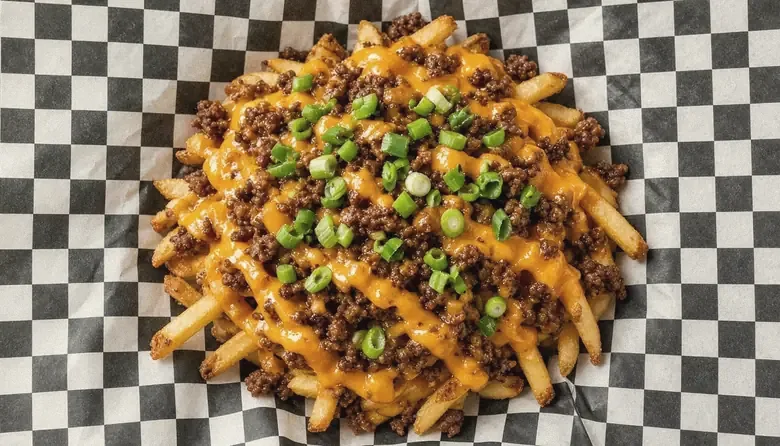
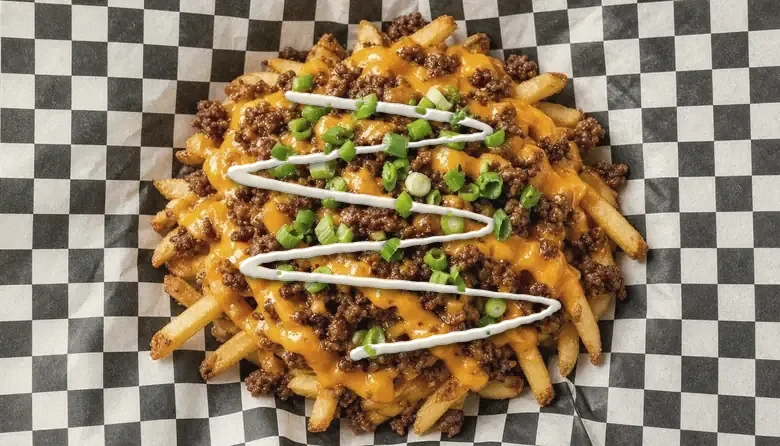
Pictures and words agree with the recipe cards (Victor: 'Fix those')
- Spaghetti & meatballs: says three meatballs; the picture with six is hidden
  until a real photo. Nonna's home picture is the chicken parm.
- Penne arrabbiata: chili flakes (no peppers), no '(vegetarian)' since it has
  Parmesan; 'No meat.' in the words instead.
- Quesadilla and nachos: no peppers in the words or the taps.
- Loaded fries: the sour-cream zig-zag the recipe finishes them with is drawn
  on the picture, under the scallion (build/art/lf_crema.py).
- Recipe data follows (old name kept as an alias); Google data and link cards
  rebuilt.

Claude-Session: https://claude.ai/code/session_0115a1bGYR8Kpu5CX1GggxyL

Changed region(s): [[0.2769, 0.3206, 0.7385, 0.8161], [0.3385, 0.204, 0.6462, 0.3498]]

diff --git a/taco-brava/index.html b/taco-brava/index.html
@@ -17,7 +17,7 @@
 <link rel="manifest" href="manifest.webmanifest">
 <link rel="preload" href="../shared/fonts/archivo.woff2" as="font" type="font/woff2" crossorigin>
 <link rel="stylesheet" href="../shared/order.css">
-<script type="application/ld+json">{"@context":"https://schema.org","@type":"FoodEstablishment","@id":"https://victorfromaruba-stack.github.io/restaurant-/taco-brava/#restaurant","name":"Taco Brava","url":"https://victorfromaruba-stack.github.io/restaurant-/taco-brava/","image":"https://victorfromaruba-stack.github.io/restaurant-/shared/og/taco-brava.jpg","description":"Birria tacos filled with slow-braised beef and mozzarella, with a cup of consommé to dip, plus ground beef street tacos, quesadillas and nachos.","servesCuisine":"Mexican","telephone":"+297 747 7794","priceRange":"ƒ3.00–ƒ27.00","currenciesAccepted":"AWG, USD","paymentAccepted":"Cash, Bank transfer","acceptsReservations":false,"address":{"@type":"PostalAddress","addressCountry":"AW"},"areaServed":[{"@type":"Place","name":"Noord, Aruba"},{"@type":"Place","name":"Palm Beach, Aruba"},{"@type":"Place","name":"Eagle Beach, Aruba"},{"@type":"Place","name":"Oranjestad, Aruba"},{"@type":"Place","name":"Paradera, Aruba"},{"@type":"Place","name":"Santa Cruz, Aruba"}],"hasMenu":{"@type":"Menu","name":"Taco Brava menu","hasMenuSection":[{"@type":"MenuSection","name":"Signature","hasMenuItem":[{"@type":"MenuItem","name":"Birria tacos (3) with consommé","description":"Three flour-tortilla tacos filled with slow-braised beef, melted mozzarella, onion and cilantro, served with a cup of consommé and lime.","offers":{"@type":"Offer","price":"27.00","priceCurrency":"AWG"}}]},{"@type":"MenuSection","name":"Mains","hasMenuItem":[{"@type":"MenuItem","name":"Ground beef street tacos (3)","description":"Three soft tacos with seasoned ground beef, onion, cilantro and salsa.","offers":{"@type":"Offer","price":"14.50","priceCurrency":"AWG"}},{"@type":"MenuItem","name":"Loaded chicken burrito","description":"Flour tortilla stuffed with chicken, rice, black beans, cheddar, salsa, cream and lettuce.","offers":{"@type":"Offer","price":"20.50","priceCurrency":"AWG"}},{"@type":"MenuItem","name":"Chicken quesadilla","description":"Flour tortilla with chicken, cheddar, mozzarella, peppers and onion, served with salsa and cream.","offers":{"@type":"Offer","price":"16.00","priceCurrency":"AWG"}},{"@type":"MenuItem","name":"Beef nachos (fried tortilla chips)","description":"Crispy fried tortilla chips topped with spiced ground beef, cheddar, black beans, peppers, salsa and cream.","offers":{"@type":"Offer","price":"20.00","priceCurrency":"AWG"}},{"@type":"MenuItem","name":"Chicken burrito bowl","description":"Rice bowl with chicken, black beans, lettuce, tomato, salsa, cheddar, lime and cilantro.","offers":{"@type":"Offer","price":"21.50","priceCurrency":"AWG"}},{"@type":"MenuItem","name":"Crispy shrimp tacos (3)","description":"Three flour-tortilla tacos with crispy shrimp, cabbage, lime cream, cilantro and garlic.","offers":{"@type":"Offer","price":"22.50","priceCurrency":"AWG"}}]},{"@type":"MenuSection","name":"Sides","hasMenuItem":[{"@type":"MenuItem","name":"Chips & salsa","description":"Crispy fried tortilla chips with house salsa.","offers":{"@type":"Offer","price":"5.50","priceCurrency":"AWG"}}]},{"@type":"MenuSection","name":"Drinks","hasMenuItem":[{"@type":"MenuItem","name":"Coca-Cola (can)","description":"Ice-cold can.","offers":{"@type":"Offer","price":"3.00","priceCurrency":"AWG"}},{"@type":"MenuItem","name":"Coca-Cola Zero (can)","description":"Ice-cold can, no sugar.","offers":{"@type":"Offer","price":"3.00","priceCurrency":"AWG"}},{"@type":"MenuItem","name":"Sprite (can)","description":"Ice-cold lemon-lime can.","offers":{"@type":"Offer","price":"3.00","priceCurrency":"AWG"}}]}]}}</script>
+<script type="application/ld+json">{"@context":"https://schema.org","@type":"FoodEstablishment","@id":"https://victorfromaruba-stack.github.io/restaurant-/taco-brava/#restaurant","name":"Taco Brava","url":"https://victorfromaruba-stack.github.io/restaurant-/taco-brava/","image":"https://victorfromaruba-stack.github.io/restaurant-/shared/og/taco-brava.jpg","description":"Birria tacos filled with slow-braised beef and mozzarella, with a cup of consommé to dip, plus ground beef street tacos, quesadillas and nachos.","servesCuisine":"Mexican","telephone":"+297 747 7794","priceRange":"ƒ3.00–ƒ27.00","currenciesAccepted":"AWG, USD","paymentAccepted":"Cash, Bank transfer","acceptsReservations":false,"address":{"@type":"PostalAddress","addressCountry":"AW"},"areaServed":[{"@type":"Place","name":"Noord, Aruba"},{"@type":"Place","name":"Palm Beach, Aruba"},{"@type":"Place","name":"Eagle Beach, Aruba"},{"@type":"Place","name":"Oranjestad, Aruba"},{"@type":"Place","name":"Paradera, Aruba"},{"@type":"Place","name":"Santa Cruz, Aruba"}],"hasMenu":{"@type":"Menu","name":"Taco Brava menu","hasMenuSection":[{"@type":"MenuSection","name":"Signature","hasMenuItem":[{"@type":"MenuItem","name":"Birria tacos (3) with consommé","description":"Three flour-tortilla tacos filled with slow-braised beef, melted mozzarella, onion and cilantro, served with a cup of consommé and lime.","offers":{"@type":"Offer","price":"27.00","priceCurrency":"AWG"}}]},{"@type":"MenuSection","name":"Mains","hasMenuItem":[{"@type":"MenuItem","name":"Ground beef street tacos (3)","description":"Three soft tacos with seasoned ground beef, onion, cilantro and salsa.","offers":{"@type":"Offer","price":"14.50","priceCurrency":"AWG"}},{"@type":"MenuItem","name":"Loaded chicken burrito","description":"Flour tortilla stuffed with chicken, rice, black beans, cheddar, salsa, cream and lettuce.","offers":{"@type":"Offer","price":"20.50","priceCurrency":"AWG"}},{"@type":"MenuItem","name":"Chicken quesadilla","description":"Flour tortilla with chicken, cheddar, mozzarella and onion, served with salsa and cream.","offers":{"@type":"Offer","price":"16.00","priceCurrency":"AWG"}},{"@type":"MenuItem","name":"Beef nachos (fried tortilla chips)","description":"Crispy fried tortilla chips topped with spiced ground beef, cheddar, black beans, salsa and cream.","offers":{"@type":"Offer","price":"20.00","priceCurrency":"AWG"}},{"@type":"MenuItem","name":"Chicken burrito bowl","description":"Rice bowl with chicken, black beans, lettuce, tomato, salsa, cheddar, lime and cilantro.","offers":{"@type":"Offer","price":"21.50","priceCurrency":"AWG"}},{"@type":"MenuItem","name":"Crispy shrimp tacos (3)","description":"Three flour-tortilla tacos with crispy shrimp, cabbage, lime cream, cilantro and garlic.","offers":{"@type":"Offer","price":"22.50","priceCurrency":"AWG"}}]},{"@type":"MenuSection","name":"Sides","hasMenuItem":[{"@type":"MenuItem","name":"Chips & salsa","description":"Crispy fried tortilla chips with house salsa.","offers":{"@type":"Offer","price":"5.50","priceCurrency":"AWG"}}]},{"@type":"MenuSection","name":"Drinks","hasMenuItem":[{"@type":"MenuItem","name":"Coca-Cola (can)","description":"Ice-cold can.","offers":{"@type":"Offer","price":"3.00","priceCurrency":"AWG"}},{"@type":"MenuItem","name":"Coca-Cola Zero (can)","description":"Ice-cold can, no sugar.","offers":{"@type":"Offer","price":"3.00","priceCurrency":"AWG"}},{"@type":"MenuItem","name":"Sprite (can)","description":"Ice-cold lemon-lime can.","offers":{"@type":"Offer","price":"3.00","priceCurrency":"AWG"}}]}]}}</script>
 </head>
 <body data-page="brand" data-brand="taco-brava" data-root="../">
 <a class="oa-skip" href="#oa-main" data-t>Skip to the menu</a>

diff --git a/nonnas-night-in/index.html b/nonnas-night-in/index.html
@@ -17,7 +17,7 @@
 <link rel="manifest" href="manifest.webmanifest">
 <link rel="preload" href="../shared/fonts/archivo.woff2" as="font" type="font/woff2" crossorigin>
 <link rel="stylesheet" href="../shared/order.css">
-<script type="application/ld+json">{"@context":"https://schema.org","@type":"FoodEstablishment","@id":"https://victorfromaruba-stack.github.io/restaurant-/nonnas-night-in/#restaurant","name":"Nonna’s Night In","url":"https://victorfromaruba-stack.github.io/restaurant-/nonnas-night-in/","image":"https://victorfromaruba-stack.github.io/restaurant-/shared/og/nonnas-night-in.jpg","description":"Penne baked with beef bolognese and mozzarella, spaghetti and meatballs, chicken parmigiana and cheesy garlic bread.","servesCuisine":"Italian","telephone":"+297 747 7794","priceRange":"ƒ3.00–ƒ26.50","currenciesAccepted":"AWG, USD","paymentAccepted":"Cash, Bank transfer","acceptsReservations":false,"address":{"@type":"PostalAddress","addressCountry":"AW"},"areaServed":[{"@type":"Place","name":"Noord, Aruba"},{"@type":"Place","name":"Palm Beach, Aruba"},{"@type":"Place","name":"Eagle Beach, Aruba"},{"@type":"Place","name":"Oranjestad, Aruba"},{"@type":"Place","name":"Paradera, Aruba"},{"@type":"Place","name":"Santa Cruz, Aruba"}],"hasMenu":{"@type":"Menu","name":"Nonna’s Night In menu","hasMenuSection":[{"@type":"MenuSection","name":"Signature","hasMenuItem":[{"@type":"MenuItem","name":"Baked penne bolognese","description":"Penne baked with a beef and tomato bolognese, mozzarella and Italian herbs.","offers":{"@type":"Offer","price":"26.50","priceCurrency":"AWG"}}]},{"@type":"MenuSection","name":"Mains","hasMenuItem":[{"@type":"MenuItem","name":"Chicken parmigiana with spaghetti","description":"Breaded chicken topped with marinara, mozzarella and Parmesan, served with spaghetti.","offers":{"@type":"Offer","price":"24.00","priceCurrency":"AWG"}},{"@type":"MenuItem","name":"Spaghetti & meatballs","description":"Spaghetti with beef meatballs in marinara, finished with Parmesan and Italian herbs.","offers":{"@type":"Offer","price":"25.50","priceCurrency":"AWG"}},{"@type":"MenuItem","name":"Chicken Alfredo penne","description":"Penne with chicken in a garlic cream sauce and Parmesan.","offers":{"@type":"Offer","price":"20.50","priceCurrency":"AWG"}},{"@type":"MenuItem","name":"Penne arrabbiata (vegetarian)","description":"Penne in a spicy tomato marinara with peppers, garlic, onion and Parmesan.","offers":{"@type":"Offer","price":"16.95","priceCurrency":"AWG"},"suitableForDiet":"https://schema.org/VegetarianDiet"}]},{"@type":"MenuSection","name":"Sides","hasMenuItem":[{"@type":"MenuItem","name":"Cheesy garlic bread","description":"Toasted garlic bread topped with mozzarella and Italian herbs.","offers":{"@type":"Offer","price":"4.50","priceCurrency":"AWG"}}]},{"@type":"MenuSection","name":"Drinks","hasMenuItem":[{"@type":"MenuItem","name":"Coca-Cola (can)","description":"Ice-cold can.","offers":{"@type":"Offer","price":"3.00","priceCurrency":"AWG"}},{"@type":"MenuItem","name":"Coca-Cola Zero (can)","description":"Ice-cold can, no sugar.","offers":{"@type":"Offer","price":"3.00","priceCurrency":"AWG"}},{"@type":"MenuItem","name":"Sprite (can)","description":"Ice-cold lemon-lime can.","offers":{"@type":"Offer","price":"3.00","priceCurrency":"AWG"}}]}]}}</script>
+<script type="application/ld+json">{"@context":"https://schema.org","@type":"FoodEstablishment","@id":"https://victorfromaruba-stack.github.io/restaurant-/nonnas-night-in/#restaurant","name":"Nonna’s Night In","url":"https://victorfromaruba-stack.github.io/restaurant-/nonnas-night-in/","image":"https://victorfromaruba-stack.github.io/restaurant-/shared/og/nonnas-night-in.jpg","description":"Penne baked with beef bolognese and mozzarella, spaghetti and meatballs, chicken parmigiana and cheesy garlic bread.","servesCuisine":"Italian","telephone":"+297 747 7794","priceRange":"ƒ3.00–ƒ26.50","currenciesAccepted":"AWG, USD","paymentAccepted":"Cash, Bank transfer","acceptsReservations":false,"address":{"@type":"PostalAddress","addressCountry":"AW"},"areaServed":[{"@type":"Place","name":"Noord, Aruba"},{"@type":"Place","name":"Palm Beach, Aruba"},{"@type":"Place","name":"Eagle Beach, Aruba"},{"@type":"Place","name":"Oranjestad, Aruba"},{"@type":"Place","name":"Paradera, Aruba"},{"@type":"Place","name":"Santa Cruz, Aruba"}],"hasMenu":{"@type":"Menu","name":"Nonna’s Night In menu","hasMenuSection":[{"@type":"MenuSection","name":"Signature","hasMenuItem":[{"@type":"MenuItem","name":"Baked penne bolognese","description":"Penne baked with a beef and tomato bolognese, mozzarella and Italian herbs.","offers":{"@type":"Offer","price":"26.50","priceCurrency":"AWG"}}]},{"@type":"MenuSection","name":"Mains","hasMenuItem":[{"@type":"MenuItem","name":"Chicken parmigiana with spaghetti","description":"Breaded chicken topped with marinara, mozzarella and Parmesan, served with spaghetti.","offers":{"@type":"Offer","price":"24.00","priceCurrency":"AWG"}},{"@type":"MenuItem","name":"Spaghetti & meatballs","description":"Spaghetti with three beef meatballs in marinara, finished with Parmesan and Italian herbs.","offers":{"@type":"Offer","price":"25.50","priceCurrency":"AWG"}},{"@type":"MenuItem","name":"Chicken Alfredo penne","description":"Penne with chicken in a garlic cream sauce and Parmesan.","offers":{"@type":"Offer","price":"20.50","priceCurrency":"AWG"}},{"@type":"MenuItem","name":"Penne arrabbiata","description":"Penne in a spicy tomato sauce with chili flakes, garlic and onion, finished with Parmesan and parsley. No meat.","offers":{"@type":"Offer","price":"16.95","priceCurrency":"AWG"}}]},{"@type":"MenuSection","name":"Sides","hasMenuItem":[{"@type":"MenuItem","name":"Cheesy garlic bread","description":"Toasted garlic bread topped with mozzarella and Italian herbs.","offers":{"@type":"Offer","price":"4.50","priceCurrency":"AWG"}}]},{"@type":"MenuSection","name":"Drinks","hasMenuItem":[{"@type":"MenuItem","name":"Coca-Cola (can)","description":"Ice-cold can.","offers":{"@type":"Offer","price":"3.00","priceCurrency":"AWG"}},{"@type":"MenuItem","name":"Coca-Cola Zero (can)","description":"Ice-cold can, no sugar.","offers":{"@type":"Offer","price":"3.00","priceCurrency":"AWG"}},{"@type":"MenuItem","name":"Sprite (can)","description":"Ice-cold lemon-lime can.","offers":{"@type":"Offer","price":"3.00","priceCurrency":"AWG"}}]}]}}</script>
 </head>
 <body data-page="brand" data-brand="nonnas-night-in" data-root="../">
 <a class="oa-skip" href="#oa-main" data-t>Skip to the menu</a>

diff --git a/build/art/lf_crema.py b/build/art/lf_crema.py
@@ -1,0 +1,82 @@
+"""Loaded fries: the recipe card finishes them with a sour-cream zig-zag under the scallion, the picture had none.
+Draws the zig-zag onto the picture (scallion stays on top), so the picture shows what the menu says.
+  python3 build/art/lf_crema.py [out.webp]   reads the picture as it was before (git 85dedc9), writes over it by default"""
+import io, math, random, subprocess, sys, os
+import numpy as np
+from PIL import Image, ImageDraw, ImageFilter
+
+ROOT = os.path.dirname(os.path.dirname(os.path.dirname(os.path.abspath(__file__))))
+PIC = "smash-shack/assets/dishes/lf.webp"
+src = subprocess.run(["git", "-C", ROOT, "show", "85dedc9:" + PIC], capture_output=True, check=True).stdout
+im = Image.open(io.BytesIO(src)).convert("RGB")
+W, H = im.size
+a = np.asarray(im).astype(np.float32)
+rnd = random.Random(7)
+
+# the pile: roughly an ellipse; the zig-zag runs corner to corner across it, slightly slanted
+cx, cy, rx, ry = 395, 222, 215, 175
+passes = 6
+pts = []
+for i in range(passes + 1):
+    t = i / passes
+    y = cy - ry * 0.70 + t * ry * 1.45 + rnd.uniform(-12, 12)
+    half = rx * rnd.uniform(0.52, 0.74) * math.sqrt(max(0.0, 1 - ((y - cy) / (ry * 1.02)) ** 2))
+    x = cx + (half if i % 2 else -half) + rnd.uniform(-20, 20) + (y - cy) * 0.22
+    pts.append((x, y))
+
+def catmull(p, n=900):
+    out = []
+    p = [p[0]] + p + [p[-1]]
+    for i in range(1, len(p) - 2):
+        p0, p1, p2, p3 = p[i - 1], p[i], p[i + 1], p[i + 2]
+        for k in range(n):
+            t = k / n
+            t2, t3 = t * t, t * t * t
+            out.append(tuple(0.5 * ((2 * p1[j]) + (-p0[j] + p2[j]) * t + (2 * p0[j] - 5 * p1[j] + 4 * p2[j] - p3[j]) * t2
+                                    + (-p0[j] + 3 * p1[j] - 3 * p2[j] + p3[j]) * t3) for j in (0, 1)))
+    out.append(p[-2])
+    return out
+
+path = catmull(pts)
+S = 4
+mask = Image.new("L", (W * S, H * S), 0)
+d = ImageDraw.Draw(mask)
+phase = rnd.uniform(0, 6)
+for i, (x, y) in enumerate(path):
+    w = 4.2 + 1.2 * math.sin(i / 260.0 + phase) + 0.5 * math.sin(i / 70.0)   # a hand-squeezed line is never even
+    wob = 1.8 * math.sin(i / 110.0) + 0.8 * math.sin(i / 37.0) + 0.5 * math.sin(i / 9.0)
+    X, Y = (x + wob) * S, (y + wob * 0.6) * S
+    d.ellipse([X - w * S, Y - w * S, X + w * S, Y + w * S], fill=255)
+mask = mask.resize((W, H), Image.LANCZOS)
+
+# scallion sits on top of the cream: no cream (and no cream shadow) on green pixels
+r, g, b = a[..., 0], a[..., 1], a[..., 2]
+green = ((g > r + 18) & (g > b + 18) & (g > 80)).astype(np.uint8) * 255
+green = np.asarray(Image.fromarray(green).filter(ImageFilter.MaxFilter(3)).filter(ImageFilter.GaussianBlur(0.7))).astype(np.float32) / 255
+top = 1 - green
+
+m = np.asarray(mask).astype(np.float32) / 255 * top
+shadow = np.asarray(Image.fromarray((m * 255).astype(np.uint8)).transform((W, H), Image.AFFINE, (1, 0, -2.5, 0, 1, -4)).filter(ImageFilter.GaussianBlur(3.0))).astype(np.float32) / 255
+out = a * (1 - 0.55 * (shadow * (1 - m) * top)[..., None])
+
+# the cream as a soft rounded bead: shaded from its own height, light from the top left like the photo
+hgt = np.asarray(Image.fromarray((m * 255).astype(np.uint8)).filter(ImageFilter.GaussianBlur(2.2))).astype(np.float32) / 255
+hgt = np.sqrt(np.clip(hgt, 0, 1)) * m
+gy, gx = np.gradient(hgt)
+k = 5.0
+n = np.dstack([-gx * k, -gy * k, np.ones_like(hgt)])
+n /= np.linalg.norm(n, axis=2, keepdims=True)
+L = np.array([-0.45, -0.65, 0.62], np.float32); L /= np.linalg.norm(L)
+Hh = L + np.array([0, 0, 1], np.float32); Hh /= np.linalg.norm(Hh)
+diff = np.clip((n * L).sum(2), 0, 1)
+spec = np.clip((n * Hh).sum(2), 0, 1) ** 38
+base = np.array([238, 234, 222], np.float32)
+cream = base[None, None, :] * (0.72 + 0.34 * diff)[..., None] + 255 * 0.55 * spec[..., None]
+cream = cream * 0.93 + a * 0.07          # thin edges let a little of the cheese through
+noise = np.random.default_rng(3).normal(0, 3.0, (H, W, 1)).astype(np.float32)   # the same fine grain as build/grade.py
+cream = cream + noise
+out = out * (1 - m[..., None]) + cream * m[..., None]
+res = Image.fromarray(np.clip(out, 0, 255).astype(np.uint8))
+dst = sys.argv[1] if len(sys.argv) > 1 else os.path.join(ROOT, PIC)
+res.save(dst, "WEBP", quality=86, method=6) if dst.endswith(".webp") else res.save(dst)
+print("wrote", dst)

diff --git a/.claude/brain/questions.md b/.claude/brain/questions.md
@@ -13,10 +13,8 @@ When answered: record the decision in victor.md (dated) and delete it here.
 - US dollars: what rate does the driver use (1.75? 1.80?), and is change given in florins? Then the site can say it. Card machine for the driver (CMB wireless Afl. 100/month + fees) or a Sentoo link (Aruba Bank business account) stay his call.
 - Google: one listing per restaurant (Google allows delivery-only brands from a shared kitchen when each has its own website and its own branded packaging, address hidden, service areas). Each needs its own branded bag sticker or box. Steps sent 9 Oct; once each exists, put its review link in the chef app's after-delivery reply.
 - Own domain for Order Aruba (about $10–15 a year, e.g. orderaruba.com)? Then links read orderaruba.com/taco-brava/ instead of victorfromaruba-stack.github.io/restaurant-/.
-- Redesign leftover: plainer dish names ('Smash combo', 'Loaded fries', 'Penne arrabbiata' without '(vegetarian)', since it has Parmesan)? And dish names and descriptions are still English in every language (so the WhatsApp ticket reads the same for the kitchen): translate the descriptions too, now that he wants everything in the visitor's language?
+- Redesign leftover: plainer dish names ('Smash combo', 'Loaded fries'; 'Penne arrabbiata' is done, 16 Oct)? And dish names and descriptions are still English in every language (so the WhatsApp ticket reads the same for the kitchen): translate the descriptions too, now that he wants everything in the visitor's language?
 - Bank transfer: which account (bank, name, number) should a customer send to? The status page and the kitchen's message need it. Until then the page says the restaurant will send the details.
 - Kitchen PIN: Claude set one for the test (told to Victor in chat, not written here). Change it on /driver/admin/ and give it to the chef. Add the real drivers there too (name, phone, PIN).
-- Pidi's look: the pidi-site branch is built on the 9 Oct redesign ('Lights On', dark ink), which he called less alive on 15 Oct. Build Pidi's ordering-in-the-app and tracking into the lively look that's live now, or keep Pidi's own look? Ask before any Pidi screen work.
 - Make the repo private: first github.com/settings/billing must show a paid plan (Pro); on Free, a private repo's site goes offline. Then Settings → General → Danger Zone → Change visibility → Private. Also github.com/settings/emails → Keep my email addresses private.
-- Pictures and words that don't match (audit 16 Oct): Nonna's spaghetti picture shows 6 meatballs (recipe plates 3; it's also Nonna's home picture); arrabbiata says peppers (recipe: chili flakes) and 'vegetarian' with Parmesan; loaded fries promise sour cream not in the picture; quesadilla and nachos offer 'No peppers' but the recipe cards have none. OK to make the words follow the recipe cards and hide the pictures that don't match until real photos?
 - Pidi database PIN fix (16 Oct, on branch pidi-site, file driver/v2/supabase/PIN_FIX_2026-10-16.sql) is not on the live database yet: this session's Supabase connector only sees another project. Either Victor reconnects the Supabase connector with the account that has the Pidi project (claude.ai/customize/connectors, then a new session runs the file), or he pastes the file into that project's SQL editor and presses Run. Then set a new 8-digit kitchen PIN and tell only the chef.

diff --git a/.claude/brain/ideas.md b/.claude/brain/ideas.md
@@ -16,7 +16,7 @@ under 25 lines: drop ideas that stopped making sense.
 - [ ] M · S · "It's for someone else": optional name + phone for the person receiving, on the WhatsApp ticket and in the chef app · done when: ticket line parsed by the chef app, qa passes
 - [ ] L · M · Count dishes from tickets in the chef app; only after a month of real counts, a "Most ordered this month" mark (the lift only comes when it's true, NBER 2007) · done when: counts visible to Victor; no label before real data
 - [ ] M · S · Plainer dish names ("Smash burger combo (burger + fries)", "Fries (side)", "Penne arrabbiata (vegetarian)" read like a till export). Names feed the WhatsApp ticket and the chef app's matching (kitchen-data.json, and Victor's private builder), so ask Victor first (needs Victor) · done when: new names on site, tickets and chef app agree and qa passes
-- [ ] H · S · On Victor's VPS copy only: add the 8 Oct allergens (tenders milk; fried rice, lo mein, Family Table sesame; lo mein, pork stir-fry, Family Table shellfish; bitterballen mustard; chips gluten) to the private kitchen-data builder in ops/kitchen/_build/, so a rebuild keeps them (needs Victor's server) · done when: a rebuilt kitchen-data.json still passes qa/check_site.py
+- [ ] H · S · On Victor's VPS copy only: add the 8 Oct allergens (tenders milk; fried rice, lo mein, Family Table sesame; lo mein, pork stir-fry, Family Table shellfish; bitterballen mustard; chips gluten; and 16 Oct: saté gluten, pork on frikandel and mix, 'Penne arrabbiata' renamed without '(vegetarian)' and not vegetarian, 'No peppers' off the quesadilla and nachos) to the private kitchen-data builder in ops/kitchen/_build/, so a rebuild keeps them (needs Victor's server) · done when: a rebuilt kitchen-data.json still passes qa/check_site.py
 - [ ] H · S · Smash Shack: the cheeseburger under "Start here" is still a generated shot with a thick patty. Needs a real photo (needs Victor)
 - [ ] H · L · Real photos, signatures first (needs Victor) · done when: the five signature dishes are real photos
 - [ ] M · M · Chef app: send cash sales to Book Keeper at Close up (Book Keeper's /api/intake/sales is live; only orders paid cash, same date the order was placed, never bank transfers) · done when: a test order sent twice shows once in Book Keeper

diff --git a/.claude/brain/victor.md b/.claude/brain/victor.md
@@ -11,6 +11,7 @@ Public repo: nothing private here (no costs, margins, buyer prices, plans, conta
 - Money is tight (8 Oct 2026: "Don't have the money now use what you can"). No paid APIs, no Gemini spend, no paid tools without asking.
 
 ## Decisions (dated)
+- 2026-10-16: Answers to the audit report: 'oke do that' = build Pidi's ordering in the app and order tracking into the lively look that's live now (not the 9 Oct redesign's dark look on the pidi-site branch). 'Fix those' = make the dish words follow the recipe cards and hide pictures that don't match until real photos (spaghetti meatballs, arrabbiata peppers and 'vegetarian', loaded fries sour cream, 'No peppers' on quesadilla and nachos).
 - 2026-10-16: Pre-launch audit answers: 'Wait until Pidi is complete' = go online only with Pidi finished (ordering in the app, order tracking, driver v2; the pidi-site branch). Until then main stays Order Aruba with WhatsApp ordering. No minimum order (replaces the 9 Oct ƒ24 rule: the Pidi branch's minFood and the database's min_food must follow). Delivery 35–50 min (replaces 45–60 on the Pidi branch). Internal notes hidden from the live site and the repo made private (he changes the visibility after checking his GitHub plan). Pidi database PIN fix: 'Yes, fix it'.
 - 2026-10-15: 'Like how the design was before the big change it feels less alive': the 9 Oct redesign is undone. The design from before it (night blue, BON NOCHI, big photo cards, covers, + on photos) is back since 15 Oct with every later fix kept. Don't bring the redesign's look back; improve this one.
 - 2026-10-15: 'Please continue the website use to look better vs what I see now' (after calling the 9 Oct redesign 'meh' next to the older, more 'alive' site): more visual life. Done the same day: big food photo cards on the home page, every true dish picture back on the menus.

diff --git a/.claude/brain/journal.md b/.claude/brain/journal.md
@@ -4,6 +4,7 @@ One line per working session or daily run, newest on top: date · who · what sh
 (commit) · what's waiting. Read the last ten lines before planning work. When the
 file passes 100 lines, fold the oldest month into one summary line.
 
+- 2026-10-16 · claude (cloud) · Victor 'Fix those': words follow the recipe cards (spaghetti 3 meatballs + picture hidden, Nonna's home picture now chicken parm; 'Penne arrabbiata', chili flakes, not vegetarian; no peppers in quesadilla/nachos) and sour-cream zig-zag drawn on the loaded fries picture (build/art/lf_crema.py)
 - 2026-10-16 · claude (cloud) · chef app pre-launch fixes merged (ee463b6, qa/check_kitchen.py 0 problems) · Pidi PIN fix on pidi-site (7eaa28e, paste file 55b2df1) · not on the live database: the connector can't reach the Pidi project
 - 2026-10-16 · claude (cloud) · pre-launch audit: website fixes (4599d65), internal notes off the live site via Jekyll exclude (97c00f6), 35–50 min + no minimum (1f1c41b), notes (5c67bb7) · running: chef app fixes, Pidi PIN fix · waiting: Victor on private repo, Pidi complete
 - 2026-10-15 · claude (cloud) · Victor: the redesign 'feels less alive'. The pre-redesign design is back (f79b135): night-blue look, logo row, Start with these photo cards, restaurant rows with pictures, cover photos/loops, + on photos, old order sheet and link cards; kept every fix since (hidePhoto, family-deal sold out, saved-order refresh, Order again for two restaurants, form errors, no closing time incl. link cards, red allergy labels, mix line, Opening soon, open first). QA 0 (also with Dushi Wok on), check.py 0 · waiting: a real smash burger photo
